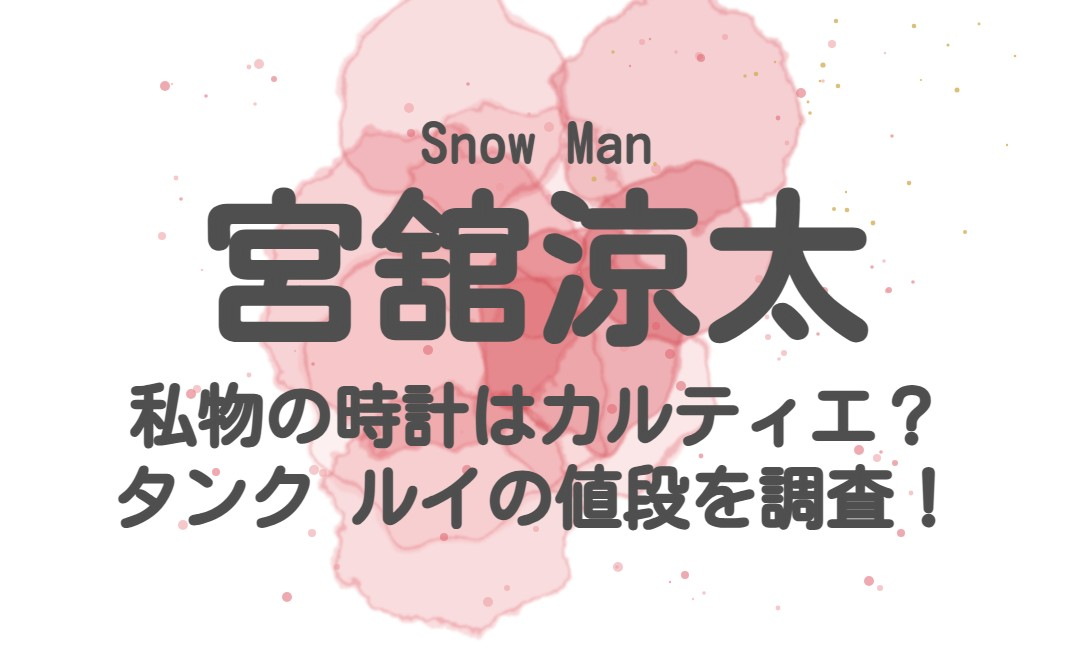
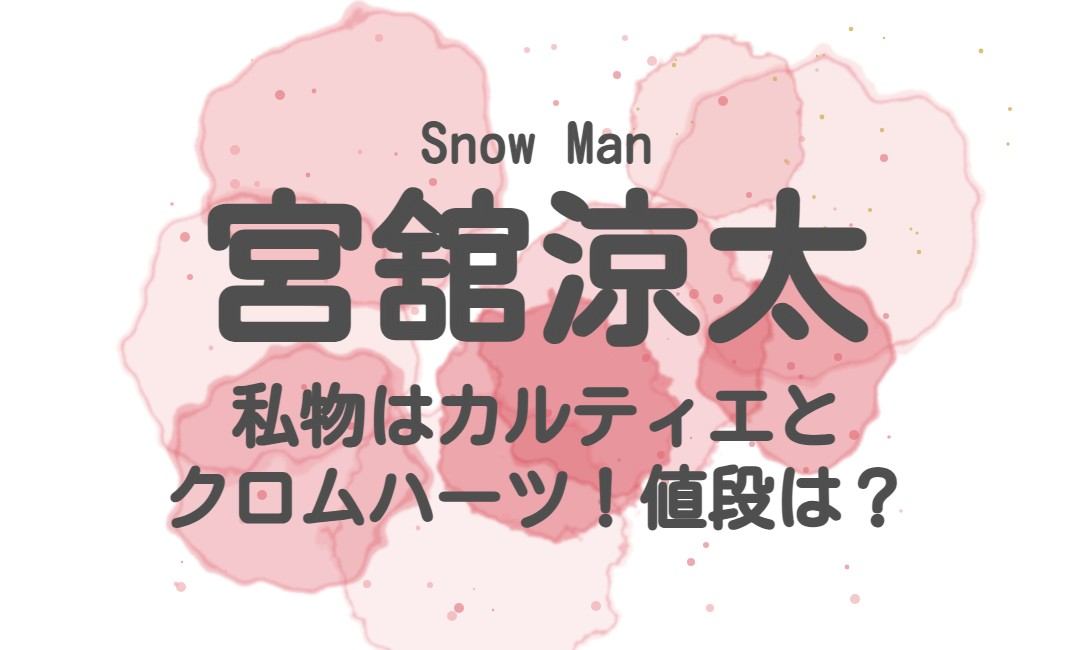
Retitle Miyadate draft 502 to include Chrome Hearts

diff --git a/images/snowman_miyadate_tank_louis_1105_eyecatch.html b/images/snowman_miyadate_tank_louis_1105_eyecatch.html
@@ -13,31 +13,31 @@ html,body{margin:0;padding:0}
 <svg xmlns="http://www.w3.org/2000/svg" width="1075" height="650" style="position:absolute;inset:0">
 <defs>
   <filter id="wc0" x="-30%" y="-30%" width="160%" height="160%">
-    <feTurbulence type="fractalNoise" baseFrequency="0.012" numOctaves="3" seed="205" result="n"/>
+    <feTurbulence type="fractalNoise" baseFrequency="0.012" numOctaves="3" seed="46" result="n"/>
     <feDisplacementMap in="SourceGraphic" in2="n" scale="60" xChannelSelector="R" yChannelSelector="G" result="d"/>
     <feGaussianBlur in="d" stdDeviation="1.2"/>
   </filter>
   <filter id="wc1" x="-30%" y="-30%" width="160%" height="160%">
-    <feTurbulence type="fractalNoise" baseFrequency="0.02" numOctaves="4" seed="56" result="n"/>
+    <feTurbulence type="fractalNoise" baseFrequency="0.02" numOctaves="4" seed="219" result="n"/>
     <feDisplacementMap in="SourceGraphic" in2="n" scale="45" xChannelSelector="G" yChannelSelector="B" result="d"/>
     <feGaussianBlur in="d" stdDeviation="0.8"/>
   </filter>
   <filter id="edge" x="-30%" y="-30%" width="160%" height="160%">
-    <feTurbulence type="fractalNoise" baseFrequency="0.015" numOctaves="3" seed="779" result="n"/>
+    <feTurbulence type="fractalNoise" baseFrequency="0.015" numOctaves="3" seed="204" result="n"/>
     <feDisplacementMap in="SourceGraphic" in2="n" scale="110" xChannelSelector="R" yChannelSelector="G" result="d"/>
     <feGaussianBlur in="d" stdDeviation="2"/>
   </filter>
   <filter id="paper"><feTurbulence type="fractalNoise" baseFrequency="0.9" numOctaves="2"/>
     <feColorMatrix values="0 0 0 0 0.5  0 0 0 0 0.5  0 0 0 0 0.5  0 0 0 0.05 0"/></filter>
 </defs>
-<circle cx="672" cy="256" r="90" fill="#e0646f" fill-opacity="0.38" style="mix-blend-mode:multiply" filter="url(#wc0)"/><circle cx="672" cy="256" r="86" fill="none" stroke="#e0646f" stroke-opacity="0.35" stroke-width="3" filter="url(#wc0)"/><circle cx="453" cy="510" r="126" fill="#ee9aa0" fill-opacity="0.35" style="mix-blend-mode:multiply" filter="url(#wc1)"/><circle cx="453" cy="510" r="121" fill="none" stroke="#e0646f" stroke-opacity="0.35" stroke-width="3" filter="url(#wc1)"/><circle cx="452" cy="389" r="153" fill="#f7cbcd" fill-opacity="0.29" style="mix-blend-mode:multiply" filter="url(#wc0)"/><circle cx="452" cy="389" r="147" fill="none" stroke="#e0646f" stroke-opacity="0.35" stroke-width="3" filter="url(#wc0)"/><circle cx="677" cy="111" r="122" fill="#e0646f" fill-opacity="0.31" style="mix-blend-mode:multiply" filter="url(#wc1)"/><circle cx="677" cy="111" r="117" fill="none" stroke="#e0646f" stroke-opacity="0.35" stroke-width="3" filter="url(#wc1)"/><circle cx="450" cy="99" r="115" fill="#ee9aa0" fill-opacity="0.33" style="mix-blend-mode:multiply" filter="url(#wc0)"/><circle cx="450" cy="99" r="110" fill="none" stroke="#e0646f" stroke-opacity="0.35" stroke-width="3" filter="url(#wc0)"/><circle cx="512" cy="220" r="118" fill="#f7cbcd" fill-opacity="0.38" style="mix-blend-mode:multiply" filter="url(#wc1)"/><circle cx="512" cy="220" r="113" fill="none" stroke="#e0646f" stroke-opacity="0.35" stroke-width="3" filter="url(#wc1)"/><circle cx="580" cy="330" r="108" fill="#e0646f" fill-opacity="0.39" style="mix-blend-mode:multiply" filter="url(#wc0)"/><circle cx="580" cy="330" r="104" fill="none" stroke="#e0646f" stroke-opacity="0.35" stroke-width="3" filter="url(#wc0)"/><circle cx="422" cy="293" r="163" fill="#ee9aa0" fill-opacity="0.43" style="mix-blend-mode:multiply" filter="url(#wc1)"/><circle cx="422" cy="293" r="157" fill="none" stroke="#e0646f" stroke-opacity="0.35" stroke-width="3" filter="url(#wc1)"/><circle cx="591" cy="379" r="117" fill="#f7cbcd" fill-opacity="0.46" style="mix-blend-mode:multiply" filter="url(#wc0)"/><circle cx="591" cy="379" r="113" fill="none" stroke="#e0646f" stroke-opacity="0.35" stroke-width="3" filter="url(#wc0)"/>
-<circle cx="488" cy="602" r="5" fill="#ee9aa0" fill-opacity="0.55"/><circle cx="656" cy="169" r="5" fill="#ee9aa0" fill-opacity="0.55"/><circle cx="313" cy="364" r="1.8" fill="#e0646f" fill-opacity="0.55"/><circle cx="630" cy="66" r="1.2" fill="#e0646f" fill-opacity="0.55"/><circle cx="704" cy="593" r="1.8" fill="#ee9aa0" fill-opacity="0.55"/><circle cx="768" cy="337" r="3" fill="#ee9aa0" fill-opacity="0.55"/><circle cx="642" cy="42" r="3" fill="#ee9aa0" fill-opacity="0.55"/><circle cx="411" cy="133" r="4" fill="#e0646f" fill-opacity="0.55"/><circle cx="612" cy="409" r="5" fill="#e0646f" fill-opacity="0.55"/><circle cx="699" cy="56" r="4" fill="#ee9aa0" fill-opacity="0.55"/><circle cx="495" cy="267" r="1.2" fill="#e0646f" fill-opacity="0.55"/><circle cx="287" cy="597" r="5" fill="#e0646f" fill-opacity="0.55"/><circle cx="681" cy="386" r="5" fill="#e0646f" fill-opacity="0.55"/><circle cx="701" cy="456" r="2.4" fill="#e0646f" fill-opacity="0.55"/><circle cx="851" cy="317" r="3" fill="#e0646f" fill-opacity="0.55"/><circle cx="725" cy="37" r="3" fill="#ee9aa0" fill-opacity="0.55"/><circle cx="801" cy="93" r="5" fill="#e0646f" fill-opacity="0.55"/><circle cx="216" cy="472" r="4" fill="#e0646f" fill-opacity="0.55"/><circle cx="255" cy="104" r="1.8" fill="#ee9aa0" fill-opacity="0.55"/><circle cx="536" cy="529" r="3" fill="#ee9aa0" fill-opacity="0.55"/><circle cx="913" cy="282" r="1.8" fill="#e0646f" fill-opacity="0.55"/><circle cx="428" cy="350" r="5" fill="#e0646f" fill-opacity="0.55"/><circle cx="767" cy="317" r="2.4" fill="#ee9aa0" fill-opacity="0.55"/><circle cx="570" cy="284" r="2.4" fill="#e0646f" fill-opacity="0.55"/><circle cx="911" cy="493" r="2.4" fill="#ee9aa0" fill-opacity="0.55"/><circle cx="353" cy="228" r="3" fill="#e0646f" fill-opacity="0.55"/><circle cx="843" cy="515" r="1.2" fill="#e0646f" fill-opacity="0.55"/><circle cx="824" cy="291" r="4" fill="#e0646f" fill-opacity="0.55"/><circle cx="300" cy="287" r="1.8" fill="#e0646f" fill-opacity="0.55"/><circle cx="832" cy="44" r="4" fill="#ee9aa0" fill-opacity="0.55"/><circle cx="509" cy="289" r="2.4" fill="#e0646f" fill-opacity="0.55"/><circle cx="181" cy="199" r="1.8" fill="#e0646f" fill-opacity="0.55"/><circle cx="295" cy="351" r="1.2" fill="#ee9aa0" fill-opacity="0.55"/><circle cx="701" cy="58" r="4" fill="#e0646f" fill-opacity="0.55"/><circle cx="676" cy="52" r="1.8" fill="#ee9aa0" fill-opacity="0.55"/><circle cx="507" cy="588" r="3" fill="#ee9aa0" fill-opacity="0.55"/><circle cx="859" cy="450" r="5" fill="#e0646f" fill-opacity="0.55"/><circle cx="323" cy="473" r="4" fill="#ee9aa0" fill-opacity="0.55"/><circle cx="197" cy="389" r="4" fill="#ee9aa0" fill-opacity="0.55"/><circle cx="650" cy="39" r="1.2" fill="#e0646f" fill-opacity="0.55"/><circle cx="884" cy="261" r="1.8" fill="#ee9aa0" fill-opacity="0.55"/><circle cx="685" cy="310" r="1.2" fill="#e0646f" fill-opacity="0.55"/><circle cx="172" cy="84" r="1.2" fill="#ee9aa0" fill-opacity="0.55"/><circle cx="628" cy="196" r="5" fill="#ee9aa0" fill-opacity="0.55"/><circle cx="579" cy="272" r="1.2" fill="#ee9aa0" fill-opacity="0.55"/><circle cx="598" cy="440" r="3" fill="#ee9aa0" fill-opacity="0.55"/><circle cx="880" cy="588" r="3" fill="#ee9aa0" fill-opacity="0.55"/><circle cx="550" cy="428" r="1.2" fill="#ee9aa0" fill-opacity="0.55"/><circle cx="249" cy="67" r="2.4" fill="#ee9aa0" fill-opacity="0.55"/><circle cx="693" cy="599" r="1.2" fill="#ee9aa0" fill-opacity="0.55"/><circle cx="872" cy="267" r="1.8" fill="#e0646f" fill-opacity="0.55"/><circle cx="624" cy="347" r="5" fill="#ee9aa0" fill-opacity="0.55"/><circle cx="877" cy="458" r="4" fill="#ee9aa0" fill-opacity="0.55"/><circle cx="283" cy="263" r="1.8" fill="#e0646f" fill-opacity="0.55"/><circle cx="670" cy="582" r="1.2" fill="#e0646f" fill-opacity="0.55"/><circle cx="685" cy="575" r="4" fill="#e0646f" fill-opacity="0.55"/><circle cx="618" cy="567" r="5" fill="#ee9aa0" fill-opacity="0.55"/><circle cx="259" cy="64" r="5" fill="#ee9aa0" fill-opacity="0.55"/><circle cx="649" cy="482" r="2.4" fill="#ee9aa0" fill-opacity="0.55"/><circle cx="238" cy="241" r="1.2" fill="#ee9aa0" fill-opacity="0.55"/><circle cx="202" cy="270" r="1.2" fill="#ee9aa0" fill-opacity="0.55"/><circle cx="249" cy="375" r="2.4" fill="#ee9aa0" fill-opacity="0.55"/><circle cx="889" cy="290" r="3" fill="#e0646f" fill-opacity="0.55"/><circle cx="547" cy="333" r="2.4" fill="#ee9aa0" fill-opacity="0.55"/><circle cx="885" cy="53" r="1.2" fill="#ee9aa0" fill-opacity="0.55"/><circle cx="529" cy="114" r="1.8" fill="#ee9aa0" fill-opacity="0.55"/><circle cx="500" cy="187" r="4" fill="#ee9aa0" fill-opacity="0.55"/><circle cx="409" cy="108" r="5" fill="#ee9aa0" fill-opacity="0.55"/><circle cx="778" cy="118" r="2.4" fill="#e0646f" fill-opacity="0.55"/><circle cx="300" cy="209" r="5" fill="#e0646f" fill-opacity="0.55"/><circle cx="162" cy="236" r="4" fill="#ee9aa0" fill-opacity="0.55"/><circle cx="901" cy="533" r="4" fill="#e0646f" fill-opacity="0.55"/><circle cx="670" cy="354" r="5" fill="#e0646f" fill-opacity="0.55"/><circle cx="274" cy="79" r="3" fill="#e0646f" fill-opacity="0.55"/><circle cx="206" cy="96" r="1.8" fill="#e0646f" fill-opacity="0.55"/><circle cx="467" cy="470" r="5" fill="#e0646f" fill-opacity="0.55"/><circle cx="165" cy="86" r="5" fill="#e0646f" fill-opacity="0.55"/><circle cx="183" cy="525" r="5" fill="#ee9aa0" fill-opacity="0.55"/><circle cx="617" cy="567" r="1.8" fill="#ee9aa0" fill-opacity="0.55"/><circle cx="549" cy="197" r="3" fill="#ee9aa0" fill-opacity="0.55"/><circle cx="578" cy="332" r="1.2" fill="#e0646f" fill-opacity="0.55"/><circle cx="869" cy="581" r="5" fill="#e0646f" fill-opacity="0.55"/><circle cx="887" cy="291" r="2.4" fill="#ee9aa0" fill-opacity="0.55"/><circle cx="787" cy="143" r="2.4" fill="#ee9aa0" fill-opacity="0.55"/><circle cx="759" cy="279" r="4" fill="#ee9aa0" fill-opacity="0.55"/><circle cx="191" cy="394" r="5" fill="#e0646f" fill-opacity="0.55"/><circle cx="462" cy="432" r="1.8" fill="#ee9aa0" fill-opacity="0.55"/><circle cx="656" cy="326" r="4" fill="#e0646f" fill-opacity="0.55"/><circle cx="444" cy="537" r="4" fill="#e0646f" fill-opacity="0.55"/><circle cx="564" cy="493" r="5" fill="#e0646f" fill-opacity="0.55"/><circle cx="763" cy="300" r="5" fill="#e0646f" fill-opacity="0.55"/><circle cx="344" cy="325" r="2.4" fill="#ee9aa0" fill-opacity="0.55"/><circle cx="314" cy="470" r="5" fill="#ee9aa0" fill-opacity="0.55"/><circle cx="468" cy="84" r="1.8" fill="#e0646f" fill-opacity="0.55"/><circle cx="391" cy="520" r="1.2" fill="#e0646f" fill-opacity="0.55"/><circle cx="823" cy="81" r="1.8" fill="#ee9aa0" fill-opacity="0.55"/><circle cx="549" cy="127" r="5" fill="#ee9aa0" fill-opacity="0.55"/><circle cx="707" cy="425" r="3" fill="#e0646f" fill-opacity="0.55"/><circle cx="744" cy="474" r="1.8" fill="#e0646f" fill-opacity="0.55"/><circle cx="456" cy="246" r="5" fill="#e0646f" fill-opacity="0.55"/><circle cx="784" cy="353" r="3" fill="#ee9aa0" fill-opacity="0.55"/><circle cx="818" cy="334" r="1.8" fill="#e0646f" fill-opacity="0.55"/><circle cx="895" cy="463" r="3" fill="#e0646f" fill-opacity="0.55"/><circle cx="337" cy="567" r="3" fill="#ee9aa0" fill-opacity="0.55"/><circle cx="778" cy="608" r="2.4" fill="#ee9aa0" fill-opacity="0.55"/><circle cx="892" cy="136" r="1.8" fill="#e0646f" fill-opacity="0.55"/><circle cx="176" cy="178" r="2.4" fill="#ee9aa0" fill-opacity="0.55"/><circle cx="881" cy="452" r="1.8" fill="#e0646f" fill-opacity="0.55"/><circle cx="312" cy="533" r="4" fill="#ee9aa0" fill-opacity="0.55"/><circle cx="779" cy="359" r="1.8" fill="#ee9aa0" fill-opacity="0.55"/>
-<circle cx="979" cy="24" r="1.4" fill="#d4ae5a" fill-opacity="0.8"/><circle cx="655" cy="164" r="1.9" fill="#d4ae5a" fill-opacity="0.8"/><circle cx="846" cy="192" r="1.2" fill="#d4ae5a" fill-opacity="0.8"/><circle cx="820" cy="81" r="1.3" fill="#d4ae5a" fill-opacity="0.8"/><circle cx="734" cy="249" r="1.4" fill="#d4ae5a" fill-opacity="0.8"/><circle cx="662" cy="241" r="1.5" fill="#d4ae5a" fill-opacity="0.8"/><circle cx="1015" cy="56" r="1.3" fill="#d4ae5a" fill-opacity="0.8"/><circle cx="909" cy="183" r="2.3" fill="#d4ae5a" fill-opacity="0.8"/><circle cx="613" cy="52" r="1.7" fill="#d4ae5a" fill-opacity="0.8"/><circle cx="847" cy="210" r="2.3" fill="#d4ae5a" fill-opacity="0.8"/><circle cx="957" cy="90" r="2.5" fill="#d4ae5a" fill-opacity="0.8"/><circle cx="838" cy="86" r="2.3" fill="#d4ae5a" fill-opacity="0.8"/><circle cx="873" cy="223" r="2.4" fill="#d4ae5a" fill-opacity="0.8"/><circle cx="594" cy="179" r="2.5" fill="#d4ae5a" fill-opacity="0.8"/><circle cx="756" cy="74" r="2.3" fill="#d4ae5a" fill-opacity="0.8"/><circle cx="823" cy="65" r="2.6" fill="#d4ae5a" fill-opacity="0.8"/><circle cx="836" cy="21" r="2.2" fill="#d4ae5a" fill-opacity="0.8"/><circle cx="808" cy="102" r="1.4" fill="#d4ae5a" fill-opacity="0.8"/><circle cx="948" cy="45" r="1.6" fill="#d4ae5a" fill-opacity="0.8"/><circle cx="775" cy="62" r="1.3" fill="#d4ae5a" fill-opacity="0.8"/><circle cx="745" cy="76" r="1.7" fill="#d4ae5a" fill-opacity="0.8"/><circle cx="965" cy="232" r="2.0" fill="#d4ae5a" fill-opacity="0.8"/><circle cx="921" cy="80" r="1.1" fill="#d4ae5a" fill-opacity="0.8"/><circle cx="914" cy="26" r="2.3" fill="#d4ae5a" fill-opacity="0.8"/><circle cx="1007" cy="145" r="1.2" fill="#d4ae5a" fill-opacity="0.8"/><circle cx="800" cy="124" r="1.0" fill="#d4ae5a" fill-opacity="0.8"/><circle cx="810" cy="113" r="1.8" fill="#d4ae5a" fill-opacity="0.8"/><circle cx="834" cy="209" r="2.0" fill="#d4ae5a" fill-opacity="0.8"/>
+<circle cx="296" cy="468" r="128" fill="#e0646f" fill-opacity="0.35" style="mix-blend-mode:multiply" filter="url(#wc0)"/><circle cx="296" cy="468" r="122" fill="none" stroke="#e0646f" stroke-opacity="0.35" stroke-width="3" filter="url(#wc0)"/><circle cx="627" cy="347" r="145" fill="#ee9aa0" fill-opacity="0.41" style="mix-blend-mode:multiply" filter="url(#wc1)"/><circle cx="627" cy="347" r="140" fill="none" stroke="#e0646f" stroke-opacity="0.35" stroke-width="3" filter="url(#wc1)"/><circle cx="266" cy="334" r="149" fill="#f7cbcd" fill-opacity="0.40" style="mix-blend-mode:multiply" filter="url(#wc0)"/><circle cx="266" cy="334" r="143" fill="none" stroke="#e0646f" stroke-opacity="0.35" stroke-width="3" filter="url(#wc0)"/><circle cx="551" cy="419" r="120" fill="#e0646f" fill-opacity="0.49" style="mix-blend-mode:multiply" filter="url(#wc1)"/><circle cx="551" cy="419" r="115" fill="none" stroke="#e0646f" stroke-opacity="0.35" stroke-width="3" filter="url(#wc1)"/><circle cx="355" cy="162" r="152" fill="#ee9aa0" fill-opacity="0.43" style="mix-blend-mode:multiply" filter="url(#wc0)"/><circle cx="355" cy="162" r="146" fill="none" stroke="#e0646f" stroke-opacity="0.35" stroke-width="3" filter="url(#wc0)"/><circle cx="480" cy="543" r="149" fill="#f7cbcd" fill-opacity="0.34" style="mix-blend-mode:multiply" filter="url(#wc1)"/><circle cx="480" cy="543" r="143" fill="none" stroke="#e0646f" stroke-opacity="0.35" stroke-width="3" filter="url(#wc1)"/><circle cx="803" cy="367" r="98" fill="#e0646f" fill-opacity="0.46" style="mix-blend-mode:multiply" filter="url(#wc0)"/><circle cx="803" cy="367" r="94" fill="none" stroke="#e0646f" stroke-opacity="0.35" stroke-width="3" filter="url(#wc0)"/><circle cx="717" cy="131" r="91" fill="#ee9aa0" fill-opacity="0.29" style="mix-blend-mode:multiply" filter="url(#wc1)"/><circle cx="717" cy="131" r="88" fill="none" stroke="#e0646f" stroke-opacity="0.35" stroke-width="3" filter="url(#wc1)"/><circle cx="816" cy="220" r="163" fill="#f7cbcd" fill-opacity="0.44" style="mix-blend-mode:multiply" filter="url(#wc0)"/><circle cx="816" cy="220" r="156" fill="none" stroke="#e0646f" stroke-opacity="0.35" stroke-width="3" filter="url(#wc0)"/>
+<circle cx="817" cy="70" r="1.8" fill="#ee9aa0" fill-opacity="0.55"/><circle cx="835" cy="209" r="1.8" fill="#ee9aa0" fill-opacity="0.55"/><circle cx="691" cy="438" r="1.2" fill="#e0646f" fill-opacity="0.55"/><circle cx="452" cy="616" r="5" fill="#ee9aa0" fill-opacity="0.55"/><circle cx="744" cy="480" r="1.2" fill="#ee9aa0" fill-opacity="0.55"/><circle cx="314" cy="91" r="2.4" fill="#e0646f" fill-opacity="0.55"/><circle cx="360" cy="152" r="2.4" fill="#ee9aa0" fill-opacity="0.55"/><circle cx="793" cy="258" r="5" fill="#ee9aa0" fill-opacity="0.55"/><circle cx="226" cy="571" r="1.2" fill="#ee9aa0" fill-opacity="0.55"/><circle cx="802" cy="277" r="1.8" fill="#ee9aa0" fill-opacity="0.55"/><circle cx="430" cy="585" r="3" fill="#ee9aa0" fill-opacity="0.55"/><circle cx="718" cy="299" r="5" fill="#e0646f" fill-opacity="0.55"/><circle cx="617" cy="75" r="4" fill="#e0646f" fill-opacity="0.55"/><circle cx="326" cy="281" r="2.4" fill="#ee9aa0" fill-opacity="0.55"/><circle cx="285" cy="475" r="3" fill="#e0646f" fill-opacity="0.55"/><circle cx="507" cy="281" r="1.8" fill="#e0646f" fill-opacity="0.55"/><circle cx="252" cy="60" r="1.2" fill="#ee9aa0" fill-opacity="0.55"/><circle cx="752" cy="444" r="3" fill="#e0646f" fill-opacity="0.55"/><circle cx="556" cy="103" r="3" fill="#e0646f" fill-opacity="0.55"/><circle cx="596" cy="309" r="1.8" fill="#ee9aa0" fill-opacity="0.55"/><circle cx="791" cy="366" r="4" fill="#e0646f" fill-opacity="0.55"/><circle cx="554" cy="47" r="3" fill="#ee9aa0" fill-opacity="0.55"/><circle cx="607" cy="133" r="5" fill="#ee9aa0" fill-opacity="0.55"/><circle cx="901" cy="511" r="1.8" fill="#ee9aa0" fill-opacity="0.55"/><circle cx="734" cy="362" r="2.4" fill="#e0646f" fill-opacity="0.55"/><circle cx="415" cy="311" r="4" fill="#ee9aa0" fill-opacity="0.55"/><circle cx="506" cy="518" r="5" fill="#ee9aa0" fill-opacity="0.55"/><circle cx="308" cy="175" r="2.4" fill="#e0646f" fill-opacity="0.55"/><circle cx="847" cy="567" r="2.4" fill="#e0646f" fill-opacity="0.55"/><circle cx="182" cy="562" r="1.2" fill="#e0646f" fill-opacity="0.55"/><circle cx="806" cy="470" r="3" fill="#e0646f" fill-opacity="0.55"/><circle cx="889" cy="437" r="1.8" fill="#e0646f" fill-opacity="0.55"/><circle cx="248" cy="482" r="3" fill="#ee9aa0" fill-opacity="0.55"/><circle cx="351" cy="426" r="4" fill="#e0646f" fill-opacity="0.55"/><circle cx="596" cy="606" r="5" fill="#ee9aa0" fill-opacity="0.55"/><circle cx="335" cy="308" r="2.4" fill="#ee9aa0" fill-opacity="0.55"/><circle cx="706" cy="545" r="3" fill="#e0646f" fill-opacity="0.55"/><circle cx="678" cy="294" r="1.8" fill="#e0646f" fill-opacity="0.55"/><circle cx="384" cy="377" r="2.4" fill="#ee9aa0" fill-opacity="0.55"/><circle cx="788" cy="163" r="2.4" fill="#ee9aa0" fill-opacity="0.55"/><circle cx="396" cy="154" r="1.8" fill="#e0646f" fill-opacity="0.55"/><circle cx="727" cy="395" r="1.2" fill="#e0646f" fill-opacity="0.55"/><circle cx="611" cy="356" r="1.2" fill="#ee9aa0" fill-opacity="0.55"/><circle cx="838" cy="357" r="4" fill="#e0646f" fill-opacity="0.55"/><circle cx="770" cy="257" r="2.4" fill="#ee9aa0" fill-opacity="0.55"/><circle cx="234" cy="303" r="1.8" fill="#e0646f" fill-opacity="0.55"/><circle cx="280" cy="95" r="5" fill="#e0646f" fill-opacity="0.55"/><circle cx="801" cy="377" r="2.4" fill="#e0646f" fill-opacity="0.55"/><circle cx="691" cy="562" r="4" fill="#e0646f" fill-opacity="0.55"/><circle cx="710" cy="608" r="4" fill="#ee9aa0" fill-opacity="0.55"/><circle cx="190" cy="277" r="3" fill="#e0646f" fill-opacity="0.55"/><circle cx="877" cy="326" r="3" fill="#ee9aa0" fill-opacity="0.55"/><circle cx="886" cy="316" r="3" fill="#e0646f" fill-opacity="0.55"/><circle cx="649" cy="502" r="1.8" fill="#ee9aa0" fill-opacity="0.55"/><circle cx="495" cy="249" r="4" fill="#e0646f" fill-opacity="0.55"/><circle cx="601" cy="502" r="3" fill="#e0646f" fill-opacity="0.55"/><circle cx="646" cy="358" r="4" fill="#e0646f" fill-opacity="0.55"/><circle cx="457" cy="134" r="1.2" fill="#e0646f" fill-opacity="0.55"/><circle cx="545" cy="243" r="5" fill="#ee9aa0" fill-opacity="0.55"/><circle cx="243" cy="520" r="4" fill="#ee9aa0" fill-opacity="0.55"/><circle cx="773" cy="295" r="1.8" fill="#e0646f" fill-opacity="0.55"/><circle cx="235" cy="150" r="5" fill="#ee9aa0" fill-opacity="0.55"/><circle cx="884" cy="158" r="4" fill="#e0646f" fill-opacity="0.55"/><circle cx="516" cy="523" r="5" fill="#ee9aa0" fill-opacity="0.55"/><circle cx="304" cy="387" r="3" fill="#e0646f" fill-opacity="0.55"/><circle cx="211" cy="348" r="2.4" fill="#ee9aa0" fill-opacity="0.55"/><circle cx="257" cy="184" r="3" fill="#ee9aa0" fill-opacity="0.55"/><circle cx="855" cy="599" r="5" fill="#ee9aa0" fill-opacity="0.55"/><circle cx="324" cy="212" r="5" fill="#ee9aa0" fill-opacity="0.55"/><circle cx="575" cy="315" r="1.8" fill="#ee9aa0" fill-opacity="0.55"/><circle cx="527" cy="50" r="3" fill="#ee9aa0" fill-opacity="0.55"/><circle cx="181" cy="587" r="5" fill="#ee9aa0" fill-opacity="0.55"/><circle cx="661" cy="455" r="4" fill="#e0646f" fill-opacity="0.55"/><circle cx="717" cy="491" r="3" fill="#e0646f" fill-opacity="0.55"/><circle cx="599" cy="256" r="3" fill="#e0646f" fill-opacity="0.55"/><circle cx="851" cy="225" r="1.8" fill="#e0646f" fill-opacity="0.55"/><circle cx="802" cy="139" r="3" fill="#ee9aa0" fill-opacity="0.55"/><circle cx="635" cy="352" r="1.2" fill="#ee9aa0" fill-opacity="0.55"/><circle cx="619" cy="460" r="1.8" fill="#e0646f" fill-opacity="0.55"/><circle cx="652" cy="61" r="5" fill="#ee9aa0" fill-opacity="0.55"/><circle cx="668" cy="339" r="1.2" fill="#ee9aa0" fill-opacity="0.55"/><circle cx="749" cy="195" r="3" fill="#e0646f" fill-opacity="0.55"/><circle cx="474" cy="589" r="1.2" fill="#ee9aa0" fill-opacity="0.55"/><circle cx="262" cy="495" r="5" fill="#e0646f" fill-opacity="0.55"/><circle cx="516" cy="146" r="1.8" fill="#e0646f" fill-opacity="0.55"/><circle cx="275" cy="203" r="1.8" fill="#e0646f" fill-opacity="0.55"/><circle cx="185" cy="237" r="5" fill="#e0646f" fill-opacity="0.55"/><circle cx="548" cy="437" r="2.4" fill="#e0646f" fill-opacity="0.55"/><circle cx="665" cy="482" r="4" fill="#e0646f" fill-opacity="0.55"/><circle cx="418" cy="528" r="2.4" fill="#ee9aa0" fill-opacity="0.55"/><circle cx="172" cy="204" r="1.8" fill="#e0646f" fill-opacity="0.55"/><circle cx="694" cy="294" r="5" fill="#e0646f" fill-opacity="0.55"/><circle cx="459" cy="608" r="5" fill="#e0646f" fill-opacity="0.55"/><circle cx="453" cy="397" r="3" fill="#e0646f" fill-opacity="0.55"/><circle cx="235" cy="184" r="5" fill="#ee9aa0" fill-opacity="0.55"/><circle cx="329" cy="239" r="1.2" fill="#ee9aa0" fill-opacity="0.55"/><circle cx="325" cy="203" r="1.8" fill="#ee9aa0" fill-opacity="0.55"/><circle cx="673" cy="416" r="3" fill="#e0646f" fill-opacity="0.55"/><circle cx="502" cy="457" r="1.8" fill="#ee9aa0" fill-opacity="0.55"/><circle cx="723" cy="101" r="5" fill="#e0646f" fill-opacity="0.55"/><circle cx="433" cy="182" r="4" fill="#e0646f" fill-opacity="0.55"/><circle cx="379" cy="38" r="4" fill="#ee9aa0" fill-opacity="0.55"/><circle cx="548" cy="413" r="4" fill="#e0646f" fill-opacity="0.55"/><circle cx="367" cy="584" r="4" fill="#ee9aa0" fill-opacity="0.55"/><circle cx="176" cy="584" r="2.4" fill="#ee9aa0" fill-opacity="0.55"/><circle cx="717" cy="440" r="3" fill="#e0646f" fill-opacity="0.55"/><circle cx="613" cy="213" r="2.4" fill="#e0646f" fill-opacity="0.55"/><circle cx="854" cy="435" r="5" fill="#e0646f" fill-opacity="0.55"/><circle cx="625" cy="38" r="3" fill="#ee9aa0" fill-opacity="0.55"/><circle cx="493" cy="610" r="1.2" fill="#e0646f" fill-opacity="0.55"/>
+<circle cx="825" cy="228" r="1.8" fill="#d4ae5a" fill-opacity="0.8"/><circle cx="638" cy="109" r="1.6" fill="#d4ae5a" fill-opacity="0.8"/><circle cx="817" cy="56" r="1.2" fill="#d4ae5a" fill-opacity="0.8"/><circle cx="981" cy="51" r="2.4" fill="#d4ae5a" fill-opacity="0.8"/><circle cx="786" cy="161" r="1.9" fill="#d4ae5a" fill-opacity="0.8"/><circle cx="1010" cy="109" r="2.1" fill="#d4ae5a" fill-opacity="0.8"/><circle cx="882" cy="130" r="2.2" fill="#d4ae5a" fill-opacity="0.8"/><circle cx="641" cy="222" r="1.4" fill="#d4ae5a" fill-opacity="0.8"/><circle cx="676" cy="60" r="1.1" fill="#d4ae5a" fill-opacity="0.8"/><circle cx="824" cy="55" r="1.2" fill="#d4ae5a" fill-opacity="0.8"/><circle cx="674" cy="65" r="2.2" fill="#d4ae5a" fill-opacity="0.8"/><circle cx="692" cy="122" r="1.6" fill="#d4ae5a" fill-opacity="0.8"/><circle cx="814" cy="197" r="1.9" fill="#d4ae5a" fill-opacity="0.8"/><circle cx="884" cy="38" r="1.3" fill="#d4ae5a" fill-opacity="0.8"/><circle cx="1008" cy="144" r="1.8" fill="#d4ae5a" fill-opacity="0.8"/><circle cx="822" cy="247" r="2.4" fill="#d4ae5a" fill-opacity="0.8"/><circle cx="822" cy="117" r="2.4" fill="#d4ae5a" fill-opacity="0.8"/><circle cx="677" cy="134" r="1.2" fill="#d4ae5a" fill-opacity="0.8"/><circle cx="634" cy="129" r="1.1" fill="#d4ae5a" fill-opacity="0.8"/><circle cx="637" cy="135" r="1.1" fill="#d4ae5a" fill-opacity="0.8"/><circle cx="911" cy="229" r="1.5" fill="#d4ae5a" fill-opacity="0.8"/><circle cx="645" cy="212" r="2.0" fill="#d4ae5a" fill-opacity="0.8"/><circle cx="870" cy="210" r="2.1" fill="#d4ae5a" fill-opacity="0.8"/><circle cx="919" cy="252" r="2.2" fill="#d4ae5a" fill-opacity="0.8"/><circle cx="851" cy="29" r="2.3" fill="#d4ae5a" fill-opacity="0.8"/><circle cx="724" cy="235" r="1.4" fill="#d4ae5a" fill-opacity="0.8"/><circle cx="917" cy="233" r="1.6" fill="#d4ae5a" fill-opacity="0.8"/><circle cx="775" cy="79" r="2.3" fill="#d4ae5a" fill-opacity="0.8"/>
 </svg>
 <div class="text">
   <div class="fit top" data-max="860">Snow Man</div>
   <div class="fit main" data-max="968">宮舘涼太</div>
-  <div class="fit bottom">私物の時計はカルティエ？</div><div class="fit bottom">タンク ルイの値段を調査！</div>
+  <div class="fit bottom">私物はカルティエと</div><div class="fit bottom">クロムハーツ！値段は？</div>
 </div></div>
 <script>
 document.fonts.ready.then(()=>{
